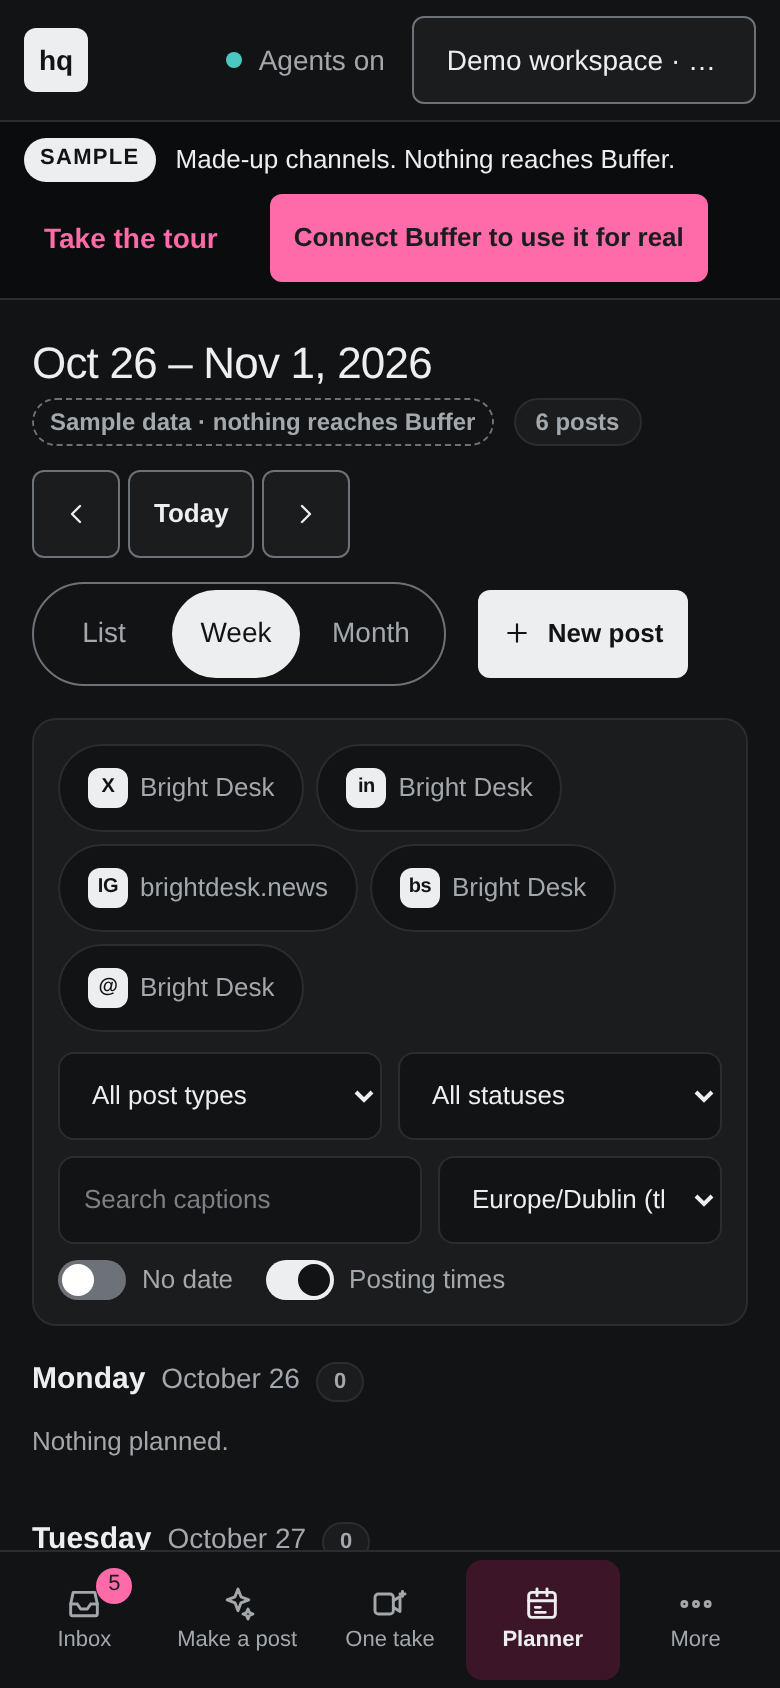
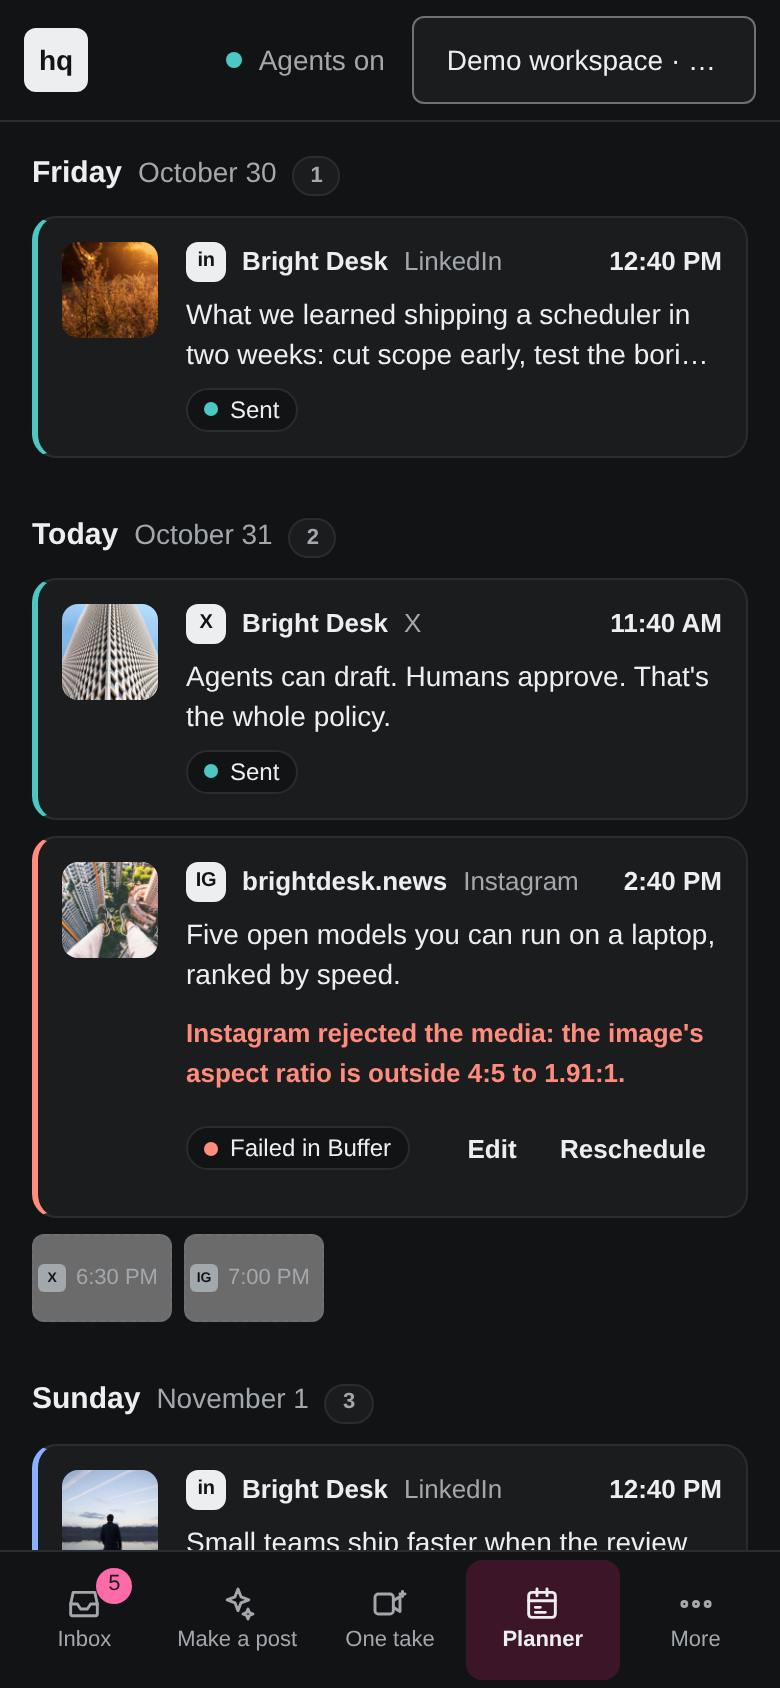
Screenshots: phone Planner agenda (light, dark) re-taken scrolled to the agenda, with the sample photos (inbox_shots.py fetches picsum.photos for the page; everything else stays blocked)

diff --git a/scripts/inbox_shots.py b/scripts/inbox_shots.py
@@ -10,6 +10,7 @@ import os
 import sys
 from pathlib import Path
 
+import httpx
 from playwright.sync_api import sync_playwright
 
 base, out = sys.argv[1].rstrip("/"), Path(sys.argv[2])
@@ -17,12 +18,23 @@ out.mkdir(parents=True, exist_ok=True)
 DESK, PHONE = {"width": 1280, "height": 860}, {"width": 390, "height": 844}
 
 
+def _photo(route):
+    try:
+        r = httpx.get(route.request.url, follow_redirects=True, timeout=15)
+        route.fulfill(status=r.status_code, body=r.content, content_type=r.headers.get("content-type", "image/jpeg"))
+    except httpx.HTTPError:
+        route.abort()
+
+
 def shot(browser, name, viewport, scheme, tab=None, tour_step=None, init=""):
     ctx = browser.new_context(viewport=viewport, color_scheme=scheme, device_scale_factor=2, timezone_id="Europe/Dublin",
                               has_touch=viewport["width"] < 1024)
     if tour_step is None:
         ctx.add_init_script("localStorage.setItem('hq_tour_done', '1');" + init)
-    ctx.route(lambda u: not u.startswith(base), lambda r: r.abort())  # sample data only, no fonts or images from outside
+    # sample data only: nothing from outside except the sample posts' stock photos (picsum.photos), fetched here and handed
+    # to the page so thumbnails aren't broken on machines where the browser itself has no internet
+    ctx.route(lambda u: not (u.startswith(base) or u.startswith("https://picsum.photos/")), lambda r: r.abort())
+    ctx.route(lambda u: u.startswith("https://picsum.photos/"), _photo)
     try:
         page = ctx.new_page()
         page.goto(base + "/demo")
@@ -42,6 +54,7 @@ def shot(browser, name, viewport, scheme, tab=None, tour_step=None, init=""):
                   .find((x) => !x.querySelector('.pl-agenda-empty')) || document.querySelector('[data-testid=planner-agenda]');
                   const head = d.previousElementSibling || d;
                   window.scrollTo(0, head.getBoundingClientRect().top + scrollY - 76); }""")
+                page.wait_for_function("[...document.images].every((i) => i.complete)", timeout=15000)
                 page.wait_for_timeout(300)
         page.screenshot(path=str(out / name))
         print("wrote", out / name)
